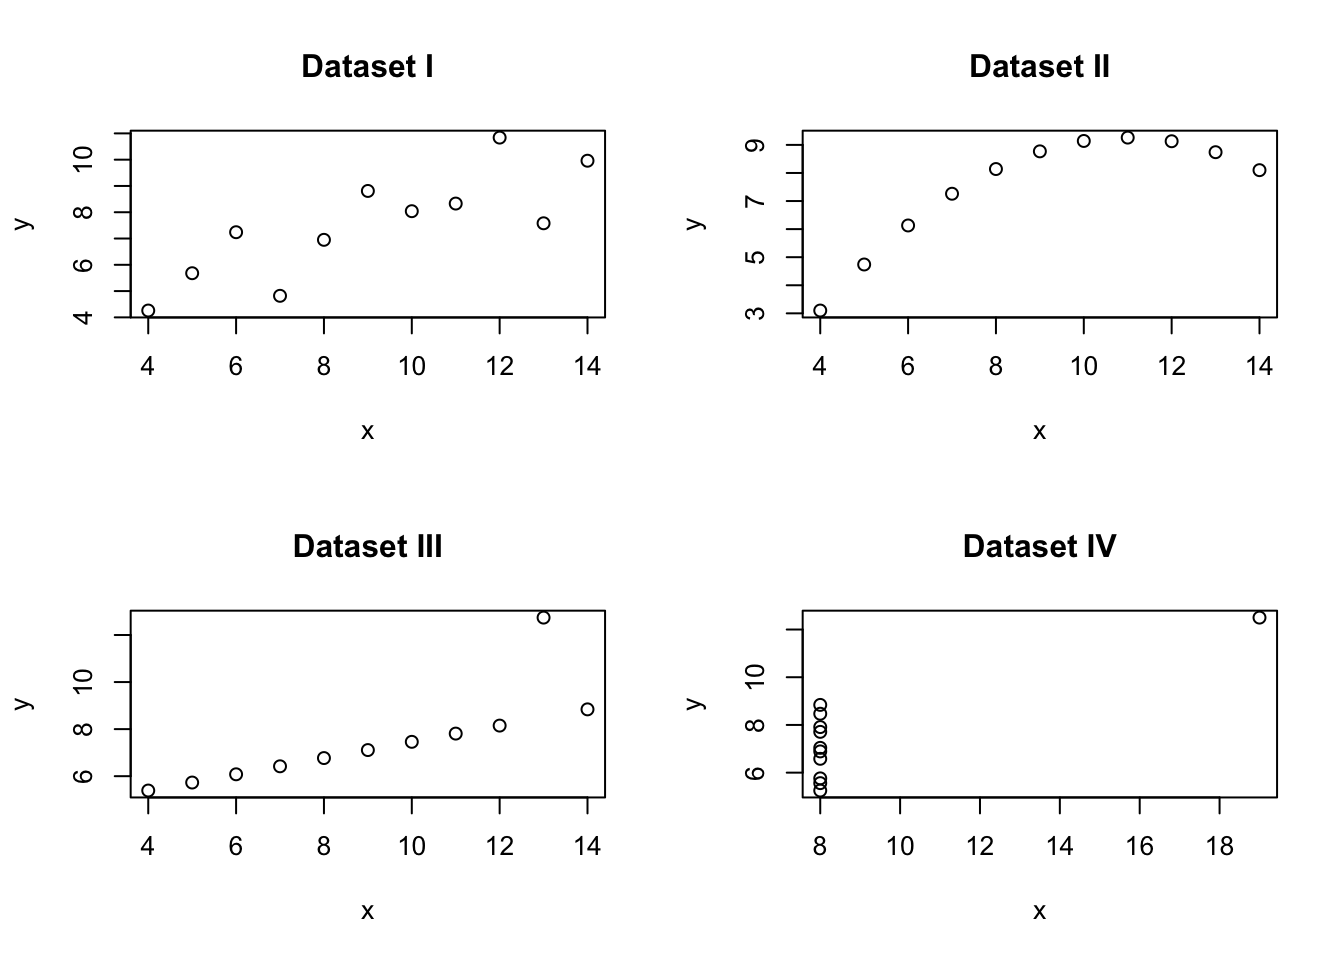
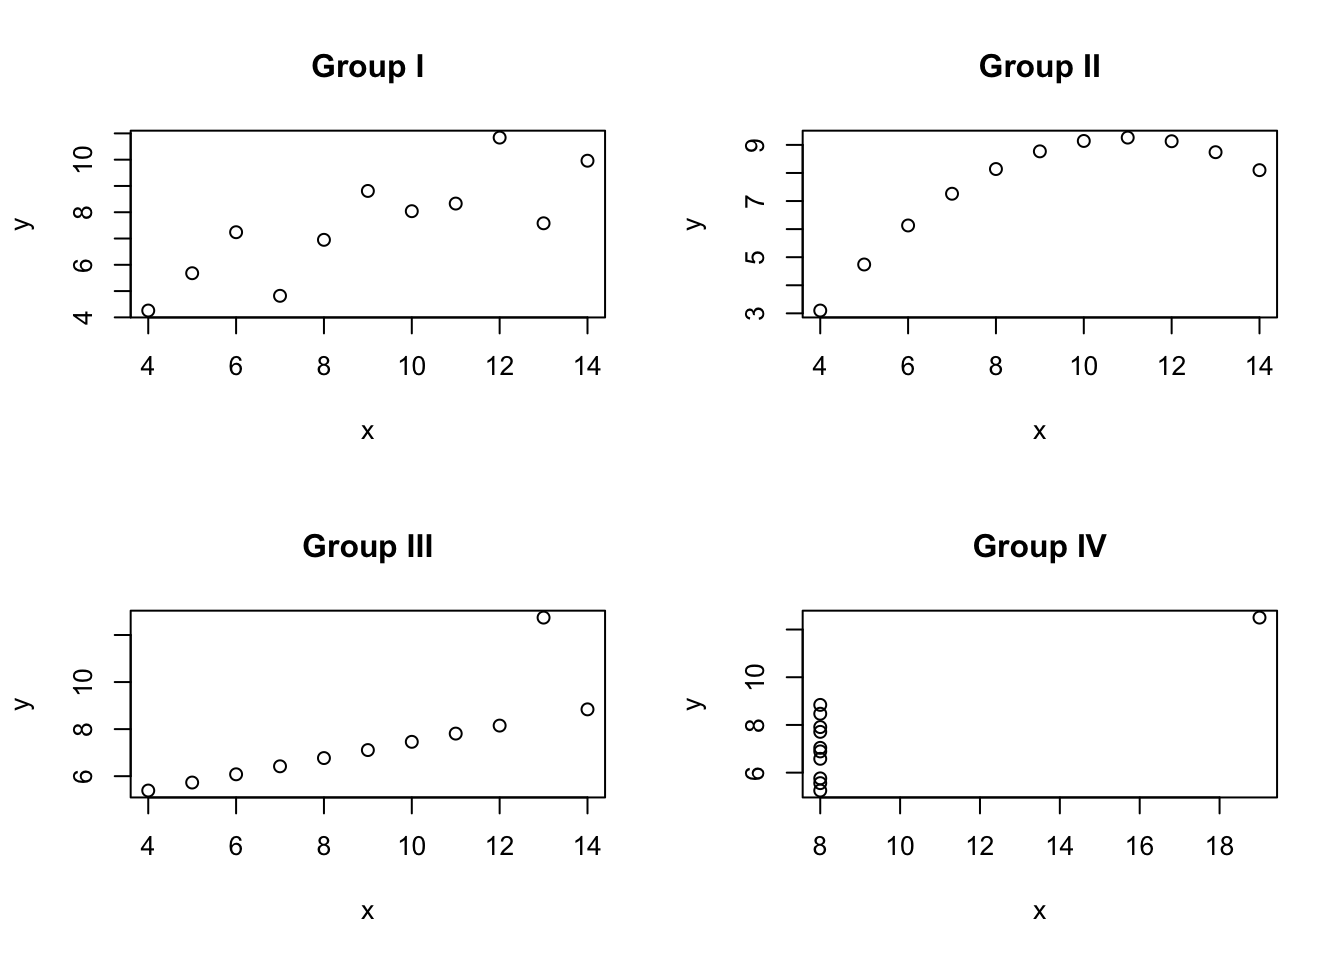
update

diff --git a/docs/시각화-기초.html b/docs/시각화-기초.html
@@ -23,7 +23,7 @@
 <meta name="author" content="Project Statgarten" />
 
 
-<meta name="date" content="2023-06-02" />
+<meta name="date" content="2023-06-05" />
 
   <meta name="viewport" content="width=device-width, initial-scale=1" />
   <meta name="apple-mobile-web-app-capable" content="yes" />
@@ -392,7 +392,7 @@ code span.wa { color: #60a0b0; font-weight: bold; font-style: italic; } /* Warni
 </tr>
 </tbody>
 </table>
-<p>나열된 숫자만을 읽는 것은 매우 피곤한일인지라, 먼저 데이터의 평균과 분산을 한번 계산해보자. 코드의 해석은 생각하지 말고 결과값에 집중해보자.</p>
+<p>나열된 숫자만을 읽는 것은 매우 피곤한일인지라, 먼저 데이터의 평균과 분산을 한번 계산해보자(코드의 해석은 생각하지 말고 결과값에 집중해보자).</p>
 <div class="sourceCode" id="cb40"><pre class="sourceCode r"><code class="sourceCode r"><span id="cb40-1"><a href="시각화-기초.html#cb40-1" aria-hidden="true" tabindex="-1"></a><span class="co"># 평균 계산</span></span>
 <span id="cb40-2"><a href="시각화-기초.html#cb40-2" aria-hidden="true" tabindex="-1"></a><span class="fu">lapply</span>(anscombe, mean)</span></code></pre></div>
 <pre><code>## $x1
@@ -454,25 +454,31 @@ code span.wa { color: #60a0b0; font-weight: bold; font-style: italic; } /* Warni
 ## y2  0.8162365  0.8162365  0.8162365 -0.7184365  0.7500054  1.0000000  0.5879193 -0.4780949
 ## y3  0.8162867  0.8162867  0.8162867 -0.3446610  0.4687167  0.5879193  1.0000000 -0.1554718
 ## y4 -0.3140467 -0.3140467 -0.3140467  0.8165214 -0.4891162 -0.4780949 -0.1554718  1.0000000</code></pre>
-<p>X와 매칭되는 Y의 상관계수는 각각 0.816으로 동일했으며 1차 회귀식은 모두 y = 3 + 0.5x로 동일했다. 즉 4개 그룹의 평균, 분산, 상관계수 및 회귀식이 모두 같다. 이것만 보면 같은 경향을 가진 데이터로 볼 수 있을 것이다. 하지만 이 데이터들을 산포도 표시하면 어떤 결과가 나타날까? 역시 코드의 해석은 생각하지 말고 결과값에 집중해보자.</p>
+<p>X와 매칭되는 Y의 상관계수는 각각 0.816으로 동일했으며 1차 회귀식은 모두 y = 3 + 0.5x로 동일했다. <strong>즉 4개 그룹의 평균, 분산, 상관계수 및 회귀식이 모두 같다.</strong> 이것만 보면 같은 경향을 가진 데이터로 볼 수 있을 것이다. 하지만 이 데이터들을 산포도 표시하면 어떤 결과가 나타날까? 역시 코드의 해석은 생각하지 말고 결과값에 집중해보자.</p>
 <div class="sourceCode" id="cb46"><pre class="sourceCode r"><code class="sourceCode r"><span id="cb46-1"><a href="시각화-기초.html#cb46-1" aria-hidden="true" tabindex="-1"></a><span class="fu">par</span>(<span class="at">mfrow =</span> <span class="fu">c</span>(<span class="dv">2</span>, <span class="dv">2</span>)) <span class="co"># 그래프를 2x2 그리드로 배치</span></span>
 <span id="cb46-2"><a href="시각화-기초.html#cb46-2" aria-hidden="true" tabindex="-1"></a></span>
 <span id="cb46-3"><a href="시각화-기초.html#cb46-3" aria-hidden="true" tabindex="-1"></a><span class="co"># 첫 번째 그래프</span></span>
-<span id="cb46-4"><a href="시각화-기초.html#cb46-4" aria-hidden="true" tabindex="-1"></a><span class="fu">plot</span>(anscombe<span class="sc">$</span>x1, anscombe<span class="sc">$</span>y1, <span class="at">main =</span> <span class="st">&quot;Dataset I&quot;</span>,</span>
+<span id="cb46-4"><a href="시각화-기초.html#cb46-4" aria-hidden="true" tabindex="-1"></a><span class="fu">plot</span>(anscombe<span class="sc">$</span>x1, anscombe<span class="sc">$</span>y1, <span class="at">main =</span> <span class="st">&quot;Group I&quot;</span>,</span>
 <span id="cb46-5"><a href="시각화-기초.html#cb46-5" aria-hidden="true" tabindex="-1"></a>     <span class="at">xlab =</span> <span class="st">&quot;x&quot;</span>, <span class="at">ylab =</span> <span class="st">&quot;y&quot;</span>)</span>
 <span id="cb46-6"><a href="시각화-기초.html#cb46-6" aria-hidden="true" tabindex="-1"></a></span>
 <span id="cb46-7"><a href="시각화-기초.html#cb46-7" aria-hidden="true" tabindex="-1"></a><span class="co"># 두 번째 그래프</span></span>
-<span id="cb46-8"><a href="시각화-기초.html#cb46-8" aria-hidden="true" tabindex="-1"></a><span class="fu">plot</span>(anscombe<span class="sc">$</span>x2, anscombe<span class="sc">$</span>y2, <span class="at">main =</span> <span class="st">&quot;Dataset II&quot;</span>,</span>
+<span id="cb46-8"><a href="시각화-기초.html#cb46-8" aria-hidden="true" tabindex="-1"></a><span class="fu">plot</span>(anscombe<span class="sc">$</span>x2, anscombe<span class="sc">$</span>y2, <span class="at">main =</span> <span class="st">&quot;Group II&quot;</span>,</span>
 <span id="cb46-9"><a href="시각화-기초.html#cb46-9" aria-hidden="true" tabindex="-1"></a>     <span class="at">xlab =</span> <span class="st">&quot;x&quot;</span>, <span class="at">ylab =</span> <span class="st">&quot;y&quot;</span>)</span>
 <span id="cb46-10"><a href="시각화-기초.html#cb46-10" aria-hidden="true" tabindex="-1"></a></span>
 <span id="cb46-11"><a href="시각화-기초.html#cb46-11" aria-hidden="true" tabindex="-1"></a><span class="co"># 세 번째 그래프</span></span>
-<span id="cb46-12"><a href="시각화-기초.html#cb46-12" aria-hidden="true" tabindex="-1"></a><span class="fu">plot</span>(anscombe<span class="sc">$</span>x3, anscombe<span class="sc">$</span>y3, <span class="at">main =</span> <span class="st">&quot;Dataset III&quot;</span>,</span>
+<span id="cb46-12"><a href="시각화-기초.html#cb46-12" aria-hidden="true" tabindex="-1"></a><span class="fu">plot</span>(anscombe<span class="sc">$</span>x3, anscombe<span class="sc">$</span>y3, <span class="at">main =</span> <span class="st">&quot;Group III&quot;</span>,</span>
 <span id="cb46-13"><a href="시각화-기초.html#cb46-13" aria-hidden="true" tabindex="-1"></a>     <span class="at">xlab =</span> <span class="st">&quot;x&quot;</span>, <span class="at">ylab =</span> <span class="st">&quot;y&quot;</span>)</span>
 <span id="cb46-14"><a href="시각화-기초.html#cb46-14" aria-hidden="true" tabindex="-1"></a></span>
 <span id="cb46-15"><a href="시각화-기초.html#cb46-15" aria-hidden="true" tabindex="-1"></a><span class="co"># 네 번째 그래프</span></span>
-<span id="cb46-16"><a href="시각화-기초.html#cb46-16" aria-hidden="true" tabindex="-1"></a><span class="fu">plot</span>(anscombe<span class="sc">$</span>x4, anscombe<span class="sc">$</span>y4, <span class="at">main =</span> <span class="st">&quot;Dataset IV&quot;</span>,</span>
+<span id="cb46-16"><a href="시각화-기초.html#cb46-16" aria-hidden="true" tabindex="-1"></a><span class="fu">plot</span>(anscombe<span class="sc">$</span>x4, anscombe<span class="sc">$</span>y4, <span class="at">main =</span> <span class="st">&quot;Group IV&quot;</span>,</span>
 <span id="cb46-17"><a href="시각화-기초.html#cb46-17" aria-hidden="true" tabindex="-1"></a>     <span class="at">xlab =</span> <span class="st">&quot;x&quot;</span>, <span class="at">ylab =</span> <span class="st">&quot;y&quot;</span>)</span></code></pre></div>
 <p><img src="%EA%B3%B5%EA%B3%B5%EB%8D%B0%EC%9D%B4%ED%84%B0%EB%B6%84%EC%84%9D101_files/figure-html/unnamed-chunk-17-1.png" width="672" /></p>
+<p>각 그룹은 평균, 분산, 상관관계, 회귀선 등의 통계적 속성이 거의 동일하지만 시각화해보면 각 그룹이 실제로 매우 다른 패턴을 갖고 있음을 알 수 있다. 시각적인 표현은 복잡한 데이터를 이해하기 쉽고 직관적으로 만들어준다. 앤스컴 콰르탯 데이터셋을 예시로 들어 설명했지만, 실제 데이터에서도 시각화를 통해 통찰력을 얻고 결정을 내릴 수 있을 것이다. 다음은 데이터 시각화를 하는 대표적인 이유들이다.</p>
+<ol style="list-style-type: decimal">
+<li><p><strong>패턴 식별</strong>: 데이터 시각화는 데이터의 패턴을 식별하는 데 도움이 된다. 이렇게 패턴을 인식하는 것은 데이터를 이해하고 향후 분석에 활용하는 데 중요하다.</p></li>
+<li><p><strong>이상치 탐지</strong>: 데이터 시각화는 이상치를 탐지하는 데 유용하다. 이상치는 데이터셋에서 일반적인 패턴과 다른 값을 가진 데이터 포인트를 의미하는데, 앤스컴 콰르탯 데이터셋의 경우, 그룹 3의 x = 13, y = 12.74와 같은 값이나 그룹 4에서 x = 19, y = 12.50과 같은 이상치를 쉽게 식별할 수 있다. 이렇게 이상치를 시각적으로 확인하면 데이터의 신뢰성과 정확성을 평가할 수 있다.</p></li>
+<li><p><strong>상관관계 이해</strong>: 데이터 시각화는 변수 간의 상관관계를 시각적으로 이해하는 데 도움이 된다. 앤스컴 콰르탯 데이터셋의 그룹 1의 경우 x와 y의 관계가 비선형적이고 종 모양의 패턴을 보여주고, 그룹 2를 보면 선형적인 상관관계가 있음을 쉽게 알 수 있다. 이러한 상관관계를 시각화하여 변수 간의 관계를 파악하면 추세를 예측하고 의사 결정을 내릴 수 있다.</p></li>
+</ol>
 <div id="ggplot2-소개" class="section level2 hasAnchor" number="5.1">
 <h2><span class="header-section-number">5.1</span> ggplot2 소개<a href="시각화-기초.html#ggplot2-소개" class="anchor-section" aria-label="Anchor link to header"></a></h2>
 <p>R에서 사용할 수 있는 많은 시각화 패키지가 존재하지만, 여기서는 Hadley Wickham이 개발한 <code>ggplot2</code> 패키지 위주로 설명하고자 한다. ggplot2 문법은 데이터 시각화를 위한 매우 직관적이고 일관된 방법을 제공하여 사용자가 효율적으로 그래프를 생성하고 사용자 지정할 수 있도록 도와준다. 무엇보다 ggplot2는 다른 tidyverse 패키지와의 호환성이 뛰어나며, 많은 사용자 기반으로 풍부한 문서와 예제를 제공하여 사용자들이 학습하고 사용할 수 있다. 본 챕터에서는 ggplot2을 통해 데이터셋을 지정하고, 어떤 변수를 x축 또는 y축에 매핑할 것인지, 어떤 유형의 그래프를 그릴 것인지, 색상, 크기, 선 스타일 등의 추가적인 매개 변수를 설정하는 방법을 알아보도록 하자. 그 전에 <a href="https://r-graph-gallery.com/ggplot2-package.html">R 그래프 갤러리</a>에 접속하면 R로 만들 수 있는 대부분의 시각화 결과물들과 그 코드를 볼 수 있다.</p>

diff --git a/docs/index.html b/docs/index.html
@@ -23,7 +23,7 @@
 <meta name="author" content="Project Statgarten" />
 
 
-<meta name="date" content="2023-06-02" />
+<meta name="date" content="2023-06-05" />
 
   <meta name="viewport" content="width=device-width, initial-scale=1" />
   <meta name="apple-mobile-web-app-capable" content="yes" />
@@ -264,7 +264,7 @@ code span.wa { color: #60a0b0; font-weight: bold; font-style: italic; } /* Warni
 <div id="header">
 <h1 class="title">공공데이터 분석 101</h1>
 <p class="author"><em>Project Statgarten</em></p>
-<p class="date"><em>2023-06-02</em></p>
+<p class="date"><em>2023-06-05</em></p>
 </div>
 <div id="모두를-위한-공공데이터" class="section level1 hasAnchor" number="1">
 <h1><span class="header-section-number">챕터 1</span> 모두를 위한 공공데이터<a href="index.html#모두를-위한-공공데이터" class="anchor-section" aria-label="Anchor link to header"></a></h1>
@@ -297,6 +297,12 @@ code span.wa { color: #60a0b0; font-weight: bold; font-style: italic; } /* Warni
 </div>
 <div id="무엇을-배우게-될까" class="section level2 hasAnchor" number="1.6">
 <h2><span class="header-section-number">1.6</span> 무엇을 배우게 될까?<a href="index.html#무엇을-배우게-될까" class="anchor-section" aria-label="Anchor link to header"></a></h2>
+<p>우리는 크게 3가지를 배울 것입니다.</p>
+<ol style="list-style-type: decimal">
+<li><strong>공공데이터의 이해</strong>: 공공데이터는 어떻게 개방되고, 어떤 데이터들이 어디에 위치하고 있는지, 데이터는 어떤 형태로 저장되어 있는지를 알아볼 것입니다.</li>
+<li><strong>분석언어(R)의 이해</strong>: 획득한 데이터를 탐색하고 분석하고 가공하는 방법에 대해 배울 것입니다. 본질적으로 데이터 분석은 인간의 사고를 통한 행위입니다. 특별한 툴이 우리의 사고를 대신해 줄 순 없지만, 보다 쉽게 만들어 줄 수는 있습니다.</li>
+<li><strong>데이터로 문제 해결하기</strong>: 실제 공공데이터 활용 프로젝트를 함께 수행해보며, 데이터 기반의 문제해결에 대해 연습해 보겠습니다. 데이터와 AI만으로 우리 사회의 모든 문제를 해결할 순 없겠지만, 데이터는 길을 알려줄 것입니다.</li>
+</ol>
 </div>
 <div id="r을-사용하는-이유" class="section level2 hasAnchor" number="1.7">
 <h2><span class="header-section-number">1.7</span> R을 사용하는 이유<a href="index.html#r을-사용하는-이유" class="anchor-section" aria-label="Anchor link to header"></a></h2>

diff --git a/docs/data.html b/docs/data.html
@@ -23,7 +23,7 @@
 <meta name="author" content="Project Statgarten" />
 
 
-<meta name="date" content="2023-06-02" />
+<meta name="date" content="2023-06-05" />
 
   <meta name="viewport" content="width=device-width, initial-scale=1" />
   <meta name="apple-mobile-web-app-capable" content="yes" />

diff --git a/docs/r-에센셜.html b/docs/r-에센셜.html
@@ -23,7 +23,7 @@
 <meta name="author" content="Project Statgarten" />
 
 
-<meta name="date" content="2023-06-02" />
+<meta name="date" content="2023-06-05" />
 
   <meta name="viewport" content="width=device-width, initial-scale=1" />
   <meta name="apple-mobile-web-app-capable" content="yes" />

diff --git a/docs/statgarten.html b/docs/statgarten.html
@@ -23,7 +23,7 @@
 <meta name="author" content="Project Statgarten" />
 
 
-<meta name="date" content="2023-06-02" />
+<meta name="date" content="2023-06-05" />
 
   <meta name="viewport" content="width=device-width, initial-scale=1" />
   <meta name="apple-mobile-web-app-capable" content="yes" />

diff --git a/docs/나가는-말.html b/docs/나가는-말.html
@@ -23,7 +23,7 @@
 <meta name="author" content="Project Statgarten" />
 
 
-<meta name="date" content="2023-06-02" />
+<meta name="date" content="2023-06-05" />
 
   <meta name="viewport" content="width=device-width, initial-scale=1" />
   <meta name="apple-mobile-web-app-capable" content="yes" />

diff --git a/docs/데이터-주무르기.html b/docs/데이터-주무르기.html
@@ -23,7 +23,7 @@
 <meta name="author" content="Project Statgarten" />
 
 
-<meta name="date" content="2023-06-02" />
+<meta name="date" content="2023-06-05" />
 
   <meta name="viewport" content="width=device-width, initial-scale=1" />
   <meta name="apple-mobile-web-app-capable" content="yes" />

diff --git a/docs/실전-공공데이터-프로젝트.html b/docs/실전-공공데이터-프로젝트.html
@@ -23,7 +23,7 @@
 <meta name="author" content="Project Statgarten" />
 
 
-<meta name="date" content="2023-06-02" />
+<meta name="date" content="2023-06-05" />
 
   <meta name="viewport" content="width=device-width, initial-scale=1" />
   <meta name="apple-mobile-web-app-capable" content="yes" />
